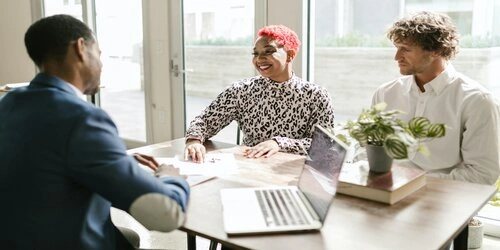
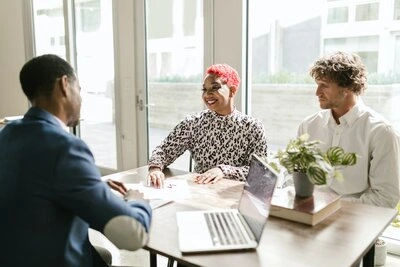
Updated hero label

diff --git a/chamber/styles/base.css b/chamber/styles/base.css
@@ -1,13 +1,3 @@
-h4 {
-    font-family: "Poppins", sans-serif;
-    font-size: 1rem;
-}
-
-h1 {
-    font-family: "Poppins", sans-serif;
-    font-size: 2rem;
-}
-
 body {
     background-color: white;
     font-size: 22px;
@@ -39,16 +29,12 @@ body.dark-mode nav a:hover {
     color: white;
 }
 
-
-
-
 header {
     width: 100%;
     position: relative;
     display: flex;
     align-items: center;
     column-gap: 10px;
-    padding-right: 30px;
 }
 
 .logo {
@@ -205,13 +191,22 @@ main {
     object-fit: cover;
 }
 
+h1 {
+    font-family: "Poppins", sans-serif;
+    font-size: 1.25rem;
+}
+
+h4 {
+    font-family: "Poppins", sans-serif;
+    font-size: 1rem;
+}
 
 .herolabel {
     position: absolute;
-    top: 140px;
-    left: 30px;
+    top: 9rem;
+    left: 1.2rem;
     background: radial-gradient(#fff, white);
-    padding: 1rem;
+    padding: 0.75rem;
     box-shadow: 2rem 2rem 2rem #2c2c2c;
     opacity: 0.75;
     /* Buenas */
@@ -221,7 +216,7 @@ main {
     margin: 0;
     padding: .15rem;
     font-weight: 600;
-    font-size: 1.2rem;
+    font-size: 1rem;
     font-family: "Poppins", sans-serif;
 }
 

diff --git a/chamber/styles/larger.css b/chamber/styles/larger.css
@@ -1,6 +1,15 @@
 /* Media Query for Larger Viewer */
 @media (min-width: 48em) {
 
+    h1 {
+        font-family: "Poppins", sans-serif;
+        font-size: 2rem;
+    }
+
+    h4 {
+        font-family: "Poppins", sans-serif;
+        font-size: 1rem;
+    }
 
     .logo {
         margin-left: 10rem;
@@ -51,8 +60,8 @@
 
     .herolabel {
         position: absolute;
-        top: 370px;
-        left: 60px;
+        top: 20rem;
+        left: 3rem;
         background: radial-gradient(#fff, white);
         padding: 1rem;
         box-shadow: 4rem 4rem 4rem #2c2c2c;
